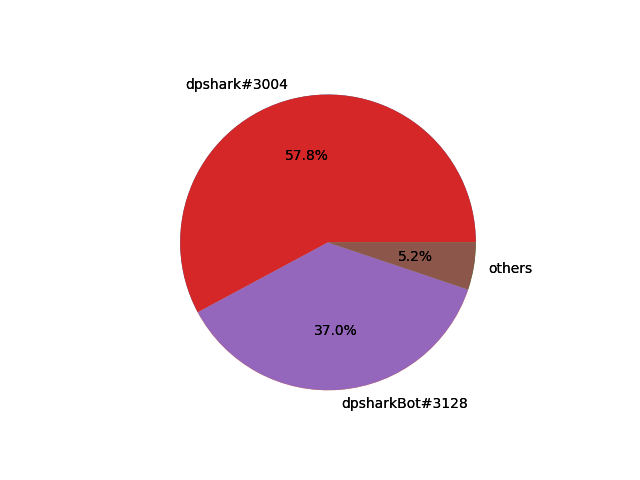
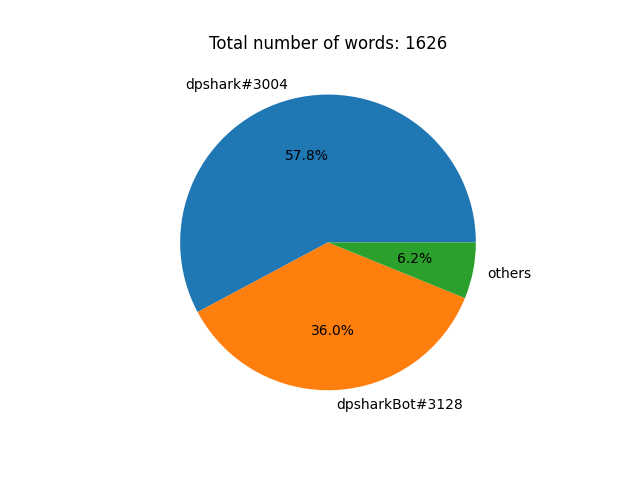
Added title to pie chart

Changed region(s): [[0.2812, 0.1562, 0.8438, 0.875], [0.3125, 0.0625, 0.7188, 0.125]]

diff --git a/countInfo.py b/countInfo.py
@@ -134,6 +134,7 @@ async def get_img(client, message):
 	cutOffPoint = 3
 	#max nr of messages
 	maxMessages = df['% Messages'].sum()
+	plt.title("Total number of words: " + str(maxMessages))
 	for i in range(len(member_counter)):
 		if (member_counter[i]/maxMessages) < (cutOffPoint/100):
 			cutOffPoint = i
@@ -204,7 +205,7 @@ async def get_wordTxt(client, message):
 		outStr += str(member_list[i]) + ": " + str(member_counter[i]) + "\n"
 	return outStr	
 
-#returns piechart of users: %of messages
+#returns piechart of users: %of words
 async def get_wordImg(client, message):
 	member_list, member_counter = await get_tableWords(client, message)
 
@@ -216,6 +217,7 @@ async def get_wordImg(client, message):
 	cutOffPoint = 3
 	#max nr of messages
 	maxWords = df['% Words'].sum()
+	plt.title("Total number of words: " + str(maxWords))
 	for i in range(len(member_counter)):
 		if (member_counter[i]/maxWords) < (cutOffPoint/100):
 			cutOffPoint = i
